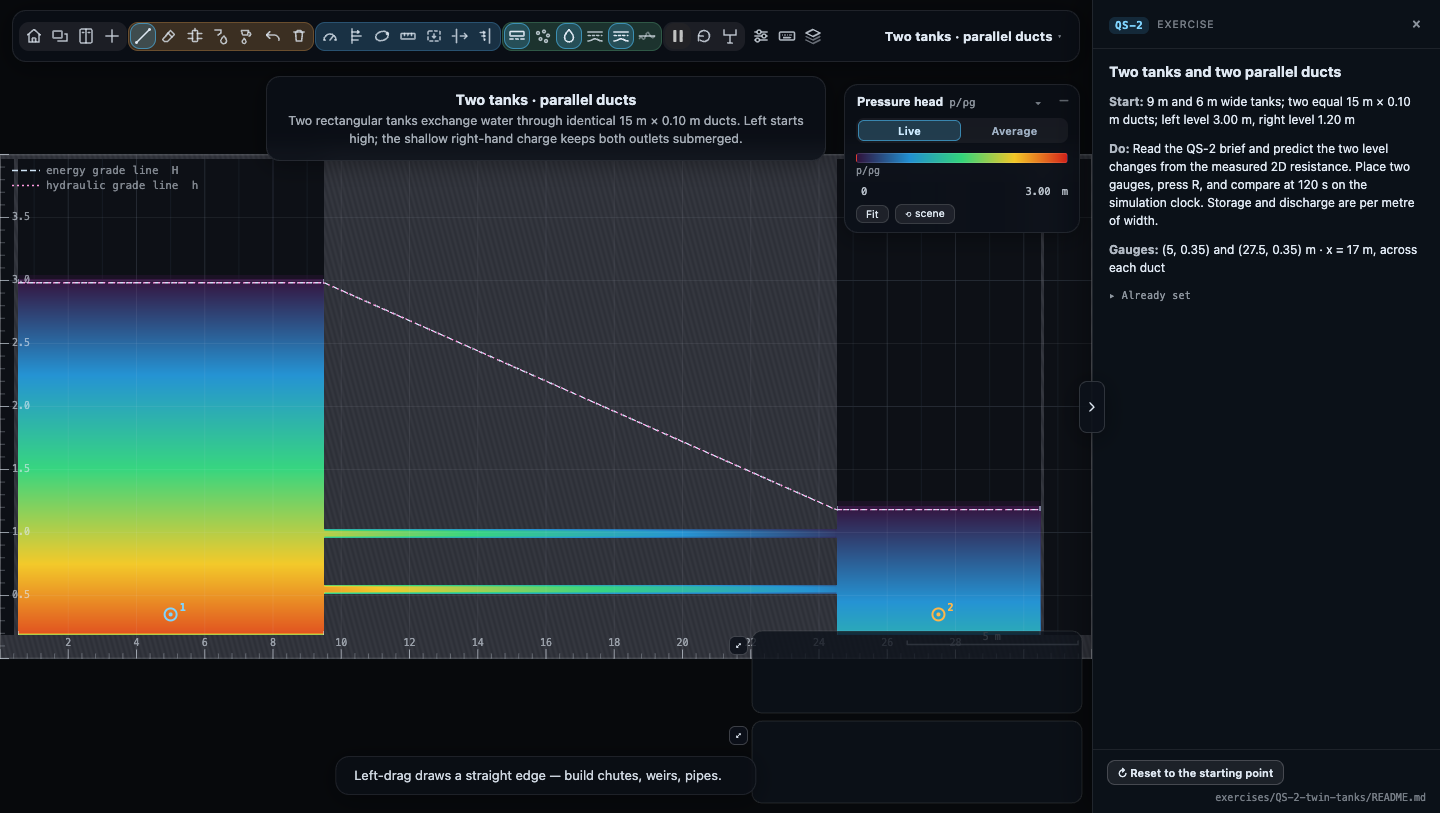
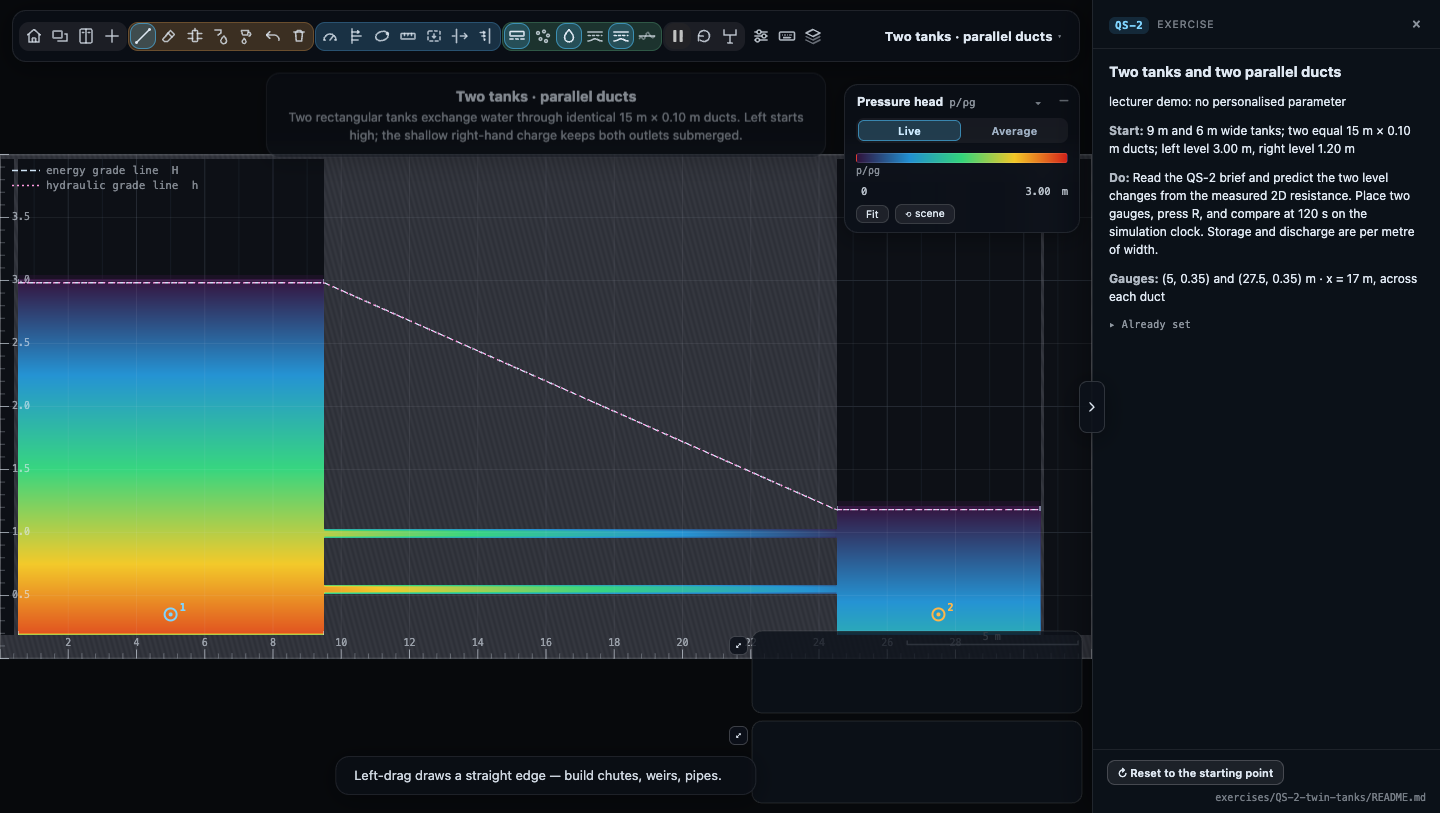
Align QS-2 with exercise authoring guidance

Changed region(s): [[0.75, 0.123, 1.0, 0.3998], [0.1875, 0.0923, 0.5625, 0.1845], [0.1875, 0.1845, 0.2188, 0.2153]]

diff --git a/js/scenes.js b/js/scenes.js
@@ -284,16 +284,35 @@ const SCENES = (() => {
 
     { id: "two-tank", name: "Two tanks · parallel ducts", key: "QS-2 · per metre width", group: "Sandbox",
       blurb: "Two rectangular tanks exchange water through identical 15 m × 0.10 m ducts. Left starts high; the shallow right-hand charge keeps both outlets submerged.",
-      W: 32, H: 4, c: 35, cf: 0.25, cs: 0.40, hmax: 3.2, vmax: 2,
+      W: 32, H: 4, c: 35, cf: 0.25, cs: 0.40, mode: 1, spinup: 0,
+      hmax: 3.2, headMax: 3, vmax: 2,
       // Clear tank widths 9 m and 6 m. All dimensions describe water faces,
       // not wall centrelines. Thick blocks leave no hidden under-floor void.
-      walls: () => [
-        [0, 0.1, 32, 0.1, 0.2],
-        [0.45, 0, 0.45, 4, 0.1],
-        [30.55, 0, 30.55, 4, 0.1],
-        [9.5, 0.25, 24.5, 0.25, 0.5],
-        [9.5, 0.77, 24.5, 0.77, 0.34],
-        [9.5, 2.52, 24.5, 2.52, 2.96],
+      // Three connected solids: ground/tank walls, the separator, and roof.
+      // The wet faces retain the original segment coordinates; the ground
+      // extends below the domain. Faces are named for the Pressure force tool.
+      solids: () => [
+        GEOM.poly([[-0.5,-0.5],[32.5,-0.5],[32.5,0.2],
+          [30.6,0.2],[30.6,4],[30.5,4],[30.5,0.2],
+          [24.5,0.2],[24.5,0.5],[9.5,0.5],[9.5,0.2],
+          [0.5,0.2],[0.5,4],[0.4,4],[0.4,0.2],[-0.5,0.2]], [
+          { id: "rightWall", label: "Right tank outer wall", e0: 5, e1: 5 },
+          { id: "rightBed", label: "Right tank floor", e0: 6, e1: 6 },
+          { id: "lowerFloor", label: "Lower duct floor", e0: 8, e1: 8 },
+          { id: "leftBed", label: "Left tank floor", e0: 10, e1: 10 },
+          { id: "leftWall", label: "Left tank outer wall", e0: 11, e1: 11 },
+        ], "tankGround"),
+        GEOM.rect(9.5, 0.60, 24.5, 0.94, { id: "ductSeparator", faces: [
+          { id: "lowerRoof", label: "Lower duct roof", e0: 0, e1: 0 },
+          { id: "right", label: "Separator: right tank face", e0: 1, e1: 1 },
+          { id: "upperFloor", label: "Upper duct floor", e0: 2, e1: 2 },
+          { id: "left", label: "Separator: left tank face", e0: 3, e1: 3 },
+        ] }),
+        GEOM.rect(9.5, 1.04, 24.5, 4, { id: "ductRoof", faces: [
+          { id: "roof", label: "Upper duct roof", e0: 0, e1: 0 },
+          { id: "right", label: "Roof block: right tank face", e0: 1, e1: 1 },
+          { id: "left", label: "Roof block: left tank face", e0: 3, e1: 3 },
+        ] }),
       ],
       water: (x, z, P) => {
         if (x < 0.5 || x > 30.5 || z < 0.2) return 0;

diff --git a/exercises/QS-2-twin-tanks/rig.js b/exercises/QS-2-twin-tanks/rig.js
@@ -1,0 +1,55 @@
+/* Paste into the app console, then await QS2.demo(). No geometry is drawn:
+ * the two-tank scene owns the initial water and its three polygon solids.
+ * Uses the same exercise picker, reset, gauges and probes as the worksheet.
+ * QS2.sample() is also the headless verifier's measurement function.
+ */
+window.QS2 = {
+  async setup() {
+    APP.pickExercise("QS-2");
+    await APP.EX.ready;
+    APP.state.paused = true;
+    APP.SIM.resetWater();
+    APP.placeGauge(5, 0.35); APP.placeGauge(27.5, 0.35);
+    return this.sample();
+  },
+  prediction(t) {
+    const delta = Math.max(0, Math.sqrt(1.8) - 0.005 * t) ** 2;
+    return { delta, left: 3 - 0.4 * (1.8 - delta), right: 1.2 + 0.6 * (1.8 - delta) };
+  },
+  sample() {
+    const S = APP.sim;
+    const head = x => {
+      let sum = 0;
+      for (let k = 0; k < 5; k++) sum += APP.probe(x + (k - 2) * 0.15, 0.35).phead + 0.35;
+      return sum / 5;
+    };
+    APP.SIM.columns(true);
+    return { t: S.t, left: S.t ? head(5) : null, right: S.t ? head(27.5) : null,
+      q1: APP.SIM.lineFlux(17, 0.45, 17, 0.65).Q,
+      q2: APP.SIM.lineFlux(17, 0.89, 17, 1.09).Q,
+      // boxForce.mass already includes ρ Δx² (kg per metre width).
+      // Divide by water density for Σf Δx², including BOTH ducts.
+      massArea: APP.boxForce(0, 0, S.scene.W, S.scene.H).mass / 1000,
+      volume: APP.volume(), dx: S.dx };
+  },
+  async advanceTo(t) {
+    APP.state.paused = true;
+    while (APP.sim.t < t) {
+      APP.tick(100);
+      await new Promise(resolve => setTimeout(resolve, 0));
+    }
+  },
+  async demo() {
+    const rows = [await this.setup()];
+    for (let t = 10; t <= 180; t += 10) {
+      await this.advanceTo(t); rows.push(this.sample());
+    }
+    const a = rows[1], b = rows[4];
+    const C = 2 * (Math.sqrt(a.left - a.right) - Math.sqrt(b.left - b.right)) /
+      ((1 / 9 + 1 / 6) * (b.t - a.t));
+    console.table(rows);
+    console.log("10–40 s calibration C:", C, "120 s prediction:", this.prediction(120));
+    return { rows, C, prediction: this.prediction(120),
+      maxMassDrift: Math.max(...rows.map(r => Math.abs(r.massArea / rows[0].massArea - 1))) };
+  },
+};

diff --git a/js/exercises.js b/js/exercises.js
@@ -703,6 +703,7 @@ const EXERCISES = [
     rig: null,
     rigParams: { budget: "Medium" },
     viewParams: { gaugeField: "h", mode: "1", grade: true, speed: 1 },
+    digitNote: "lecturer demo: no personalised parameter",
     instruments: [
       { tool: "gauge", where: "(5, 0.35) and (27.5, 0.35) m", why: "the two water levels; subtract to get the driving head difference" },
       { tool: "flux", where: "x = 17 m, across each duct", why: "the two parallel discharges add; both branches see the same head difference" },

diff --git a/exercises/QS-2-twin-tanks/README.md b/exercises/QS-2-twin-tanks/README.md
@@ -7,12 +7,17 @@ the screen**.
 
 ![The enlarged two-tank rig](rig.png)
 
-Open [QS-2 in the app](../../index.html?ex=QS-2), or press **E** and choose
-QS-2. This scene requires a build containing the replacement exercise. The accompanying
+**Open it:** press **E** in the [app](../../index.html) and choose **QS-2**,
+or use the direct link [`?ex=QS-2`](../../index.html?ex=QS-2).
+How to run any exercise: see the [teaching pack index](../INDEX.md#running-an-exercise).
+This scene requires a build containing the replacement exercise. The accompanying
 [rig JSON](hydraulician-rig-QS-2.json) also loads into that build through
 Controls → Rig → Open file. **R** restores the initial water every time.
 The exercise and saved rig open with **Pressure head** colouring and
 **Grade lines (EGL / HGL)** enabled.
+
+This is a **lecturer demo** with no personalised parameter and nothing to
+submit or pool. Students predict the two level changes before the run.
 
 ## Revised question
 
@@ -36,7 +41,7 @@ covers the outlets; a completely empty right tank would add a free-jet and
 filling stage and would need a different question. Initial depth is 2.80 m
 on the left and 1.00 m on the right.
 
-## Worked solution
+## Theory
 
 For a one-metre slice the storage areas are A₁ = 9 m² and A₂ = 6 m².
 Equivalently use widths B₁ = 9 m and B₂ = 6 m with unit discharge q:
@@ -60,7 +65,7 @@ coefficient**, including the numerical representation at Medium, not a
 circular-pipe friction factor or an independently specified material property.
 The original 0.007 must not be entered as the solver's wall roughness.
 
-## Run and compare
+## What to do
 
 1. Pause while placing Head gauges (`5`) at (5, 0.35) and (27.5, 0.35) m.
 2. Keep **Medium**, wall roughness **0.250**, eddy viscosity **0.40**, and
@@ -68,7 +73,8 @@ The original 0.007 must not be entered as the solver's wall roughness.
 3. Press **R**, resume, and use the **simulation clock**, not a stopwatch.
 4. Pause at 120 s. Compare the two gauge levels with 2.50 m and 1.95 m.
    A **0.05 m tolerance per level** is appropriate for this coarse teaching rig.
-5. Optional: put one Section across each bore at x = 17 m. Their flows should
+5. Optional: select **MEASURE → Flux line** (no digit shortcut) and draw one
+   section upwards across each bore at x = 17 m. Their flows should
    be nearly equal and add, whereas their head losses are equal. Use tank
    drawdown for calibration; thin-bore section quadrature is coarse at Medium.
 
@@ -77,7 +83,15 @@ right tank x = 24.5–30.5 m. Lower bore z = 0.50–0.60 m; upper bore
 z = 0.94–1.04 m. The walls are clean rectangular blocks with no common
 manifold, bends or unequal branch lengths. The view fits the larger domain.
 
-## Verification and limits
+## For the instructor
+
+For a console spot-check, paste [rig.js](rig.js) into the app console and
+run `await QS2.demo()`. It selects QS-2, resets the water, places the two
+gauges, and prints the early calibration, the 120 s prediction and the
+10 s observations through 180 s. It pauses the normal animation while
+advancing the solver in short batches. `QS2.sample()` reads the current
+levels, both section flows and whole-domain mass; `QS2.prediction(120)`
+returns the worked answer. No collection script is needed for this demo.
 
 Run `node exercises/QS-2-twin-tanks/verify.mjs` with Node 22+ and a GPU-backed
 Chrome. It boots through `file://`, drives the solver, writes
@@ -88,9 +102,15 @@ The calibration uses only the **10–40 s** gauge observations, fitting the
 slope of √Δη, then rounds C to 0.036. The **120 s** point is held out:
 the measured levels were **2.524 m and 1.973 m**, against predictions of
 2.500 m and 1.950 m. The measured head difference was **0.552 m** against
-0.550 m. Branch section flows agreed within 1%; cached column volume varied
-by less than 0.2% over 180 s. The solver's compressibility, grid geometry and
-free-surface fluctuations explain why this is an approximate comparison.
+0.550 m. Branch section flows agreed within 1%. Conservation is checked
+with **whole-domain Σf Δx²**, using `APP.boxForce(0,0,W,H).mass / 1000`:
+the API already returns mass in kg per metre width. The cached
+`APP.volume()` is retained only as a diagnostic; its column walk misses the
+upper duct and must not be used as a conservation check. Measured whole-domain
+water-equivalent area was 34.088491 m² initially and 34.088562 m² at 180 s,
+a maximum relative drift of **0.00021%**. The solver's
+compressibility, grid geometry and free-surface fluctuations explain why
+this is an approximate comparison.
 
 Medium has Δx ≈ 0.0367 m and represents both nominal 0.10 m bores with the
 same two open rows. This is a calibrated classroom experiment, **not a
@@ -98,9 +118,16 @@ grid-converged prediction of a physical duct**. Changing resolution, duct
 geometry or drag requires recalibrating C. In particular, do not interpret
 the agreement as independent validation of a pipe-friction law.
 
-For an extension, derive C from your own 10–40 s observations, predict a
-later time, and explain why the larger tank falls more slowly. Keep the
-calibration interval separate from the prediction interval.
+### Discussion points
+
+- Derive C from your own 10–40 s observations and predict a later time.
+  Why must the calibration interval be separate from the prediction interval?
+- Explain why the larger tank falls more slowly, even though the transferred
+  volume is the same in both tanks.
+- Explain why parallel discharges add but the head loss is shared.
+- Compare Pressure head colouring with the HGL: pressure head varies with
+  elevation even in a still tank, while piezometric head is approximately
+  constant there. Why does the EGL lie above the HGL in the ducts?
 
 The original circular-tank calculation and its corrected answer are retained
 in [the comparison note](../../docs/qs2-two-tank.md).
